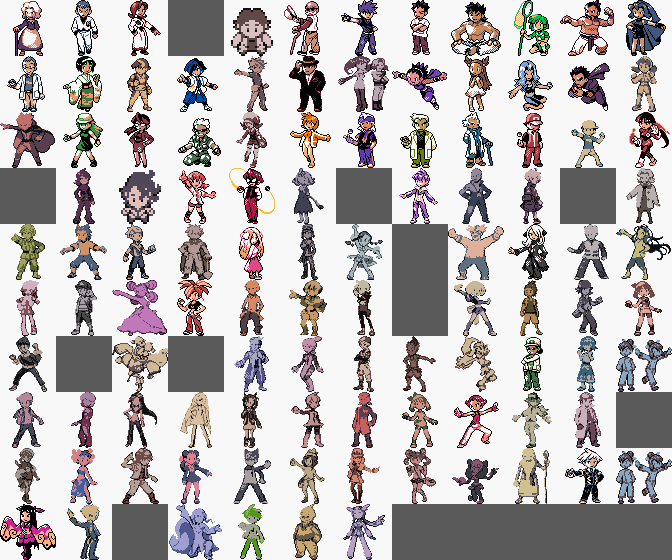
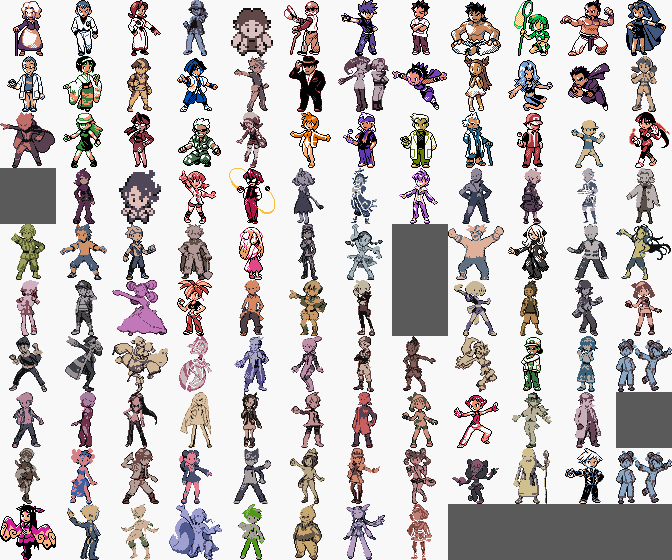
Picker portraits 112/117: Platinum CM's DS portraits as a third source
Ash, Adaman, Beni, Ingo, Irida, Volo, Zisu (Showdown trainer avatars via the Platinum port),
reduced to 56x56 4-colour GBC pics like ROWE's; their background is the corner pixel's index
(14/15), not 0. test_portraits now also samples one portrait per source (Ash shown live in the
picker); run_tests 27 PASS + tamper controls. Still none: Samson Oak, Chloe, Goh, Paul, Zoey.
Build cf0c3e69, BPS 75b55301.

Claude-Session: https://claude.ai/code/session_01LZxD7WiahHdGyH93ChcJpT

diff --git a/tools/character_mode/build_portraits.py b/tools/character_mode/build_portraits.py
@@ -8,6 +8,10 @@ Sources, in order (credits: CREDITS.md):
      graphics/trainers.h -> the PNG): a 64x64 GBA pic, background (index 0) -> white, cropped to the figure,
      scaled to fit 56x56 (only when larger), and reduced to white + black + two fitted mid-tones.
 
+  3. Platinum Character Mode's portrait for the character (2026-11-03; ~/CharacterHacks-NDS/pokeplatinum-cm/res/graphics/
+     character_mode/NNN_<name>.png, an 80x80 16-colour DS pic, index 0 transparent): reduced exactly like source 2.
+     Its own source is credited in that repo's CREDITS.md (art_sources.json); CREDITS.md here names it per character.
+
 Writes art/portraits/<id>.2bpp (49 tiles, row-major), <id>.pal (4 x RGB555), contact.png and manifest.json
 {id: {name, source}}, plus tools/character_mode/portraits.asm (the per-character table in bank 119 at $46A0
 and the pics in banks $79-$7F, 20 per bank). Characters without a source get none: the picker leaves the
@@ -30,6 +34,7 @@ FIRST_BANK, PER_BANK, NUM_CHARS = 0x79, 20, 152
 PC = Path.home() / "src-donors/gbc-art/polishedcrystal/gfx/trainers"
 ROWE = Path("/home/jbfish00/Documents/Pokemon Rowe Alteration")
 SIZE = 56
+PLAT = Path.home() / "CharacterHacks-NDS/pokeplatinum-cm/res/graphics/character_mode"
 PC_ALIAS = {"Lt. Surge": "lt_surge"}
 
 
@@ -59,6 +64,14 @@ def rowe_pngs():
     return out
 
 
+def plat_pngs():
+    """character key -> Platinum CM portrait PNG (file names are NNN_<key>.png)."""
+    out = {}
+    for f in sorted(PLAT.glob("[0-9][0-9][0-9]_*.png")):
+        out.setdefault(f.stem.split("_", 1)[1], f)
+    return out
+
+
 def rgb555(c):
     r, g, b = c
     return (r >> 3) | ((g >> 3) << 5) | ((b >> 3) << 10)
@@ -78,12 +91,19 @@ def from_pc(name):
     return idx, [r | (g << 5) | (b << 10) for r, g, b in pal4]
 
 
-def from_gba(png):
+def from_gba(png, bg_from_corner=False):
+    """bg_from_corner: the background is the corner pixel's index, not index 0 (Platinum CM's DS pics use 14 or 15)."""
     im = Image.open(png)
     assert im.mode == "P", png
     pal = im.getpalette()[:48]
     w, h = im.size
     px = list(im.getdata())
+    if bg_from_corner:
+        bg = px[0]
+        assert {px[w - 1], px[-w], px[-1]} == {bg}, (png, "corners disagree")
+        px = [0 if v == bg else (bg if v == 0 else v) for v in px]     # swap bg <-> 0
+        pal = list(pal) + [0] * (48 - len(pal))
+        pal[0:3], pal[bg * 3:bg * 3 + 3] = pal[bg * 3:bg * 3 + 3], pal[0:3]
     rgb = Image.new("RGB", (w, h), (255, 255, 255))
     for i, v in enumerate(px):
         if v:
@@ -168,6 +188,7 @@ def main():
     h = rows[0]
     sel = [(int(r[0]), r[1]) for r in rows[1:] if r[h.index("selectable")] == "1"]
     rowe = rowe_pngs()
+    plat = plat_pngs()
     OUT.mkdir(parents=True, exist_ok=True)
     man, sheet = {}, Image.new("RGB", (SIZE * 12, SIZE * ((len(sel) + 11) // 12)), (90, 90, 90))
     for n, (cid, name) in enumerate(sel):
@@ -175,6 +196,8 @@ def main():
             idx, pal, src = *from_pc(name), "polishedcrystal:" + key(name)
         elif name in rowe:
             idx, pal, src = *from_gba(rowe[name]), "rowe:" + rowe[name].name
+        elif key(name) in plat:
+            idx, pal, src = *from_gba(plat[key(name)], bg_from_corner=True), "platinum-cm:" + plat[key(name)].name
         else:
             continue
         (OUT / ("%d.2bpp" % cid)).write_bytes(to_2bpp(idx))
@@ -188,9 +211,10 @@ def main():
     (OUT / "manifest.json").write_text(json.dumps(man, indent=1))
     emit_asm(man)
     missing = [name for cid, name in sel if cid not in man]
-    print("portraits %d / %d selectable (polishedcrystal %d, rowe %d); missing: %s" % (
+    print("portraits %d / %d selectable (polishedcrystal %d, rowe %d, platinum-cm %d); missing: %s" % (
         len(man), len(sel), sum(v["source"].startswith("polished") for v in man.values()),
-        sum(v["source"].startswith("rowe") for v in man.values()), missing))
+        sum(v["source"].startswith("rowe") for v in man.values()),
+        sum(v["source"].startswith("platinum") for v in man.values()), missing))
 
 
 if __name__ == "__main__":

diff --git a/tools/tests/test_portraits.py b/tools/tests/test_portraits.py
@@ -56,6 +56,11 @@ def main():
     with_art = [k for k, (cid, _) in enumerate(sel) if cid in man]
     without = [k for k, (cid, _) in enumerate(sel) if cid not in man]
     pick = [with_art[0], with_art[len(with_art) // 2], with_art[-1]]
+    # + one of each source (2026-11-03: Platinum CM's DS pics joined Polished Crystal and ROWE)
+    for pre in ("polishedcrystal:", "rowe:", "platinum-cm:"):
+        k = next(k for k in with_art if man[sel[k][0]]["source"].startswith(pre))
+        if k not in pick:
+            pick.append(k)
 
     pb = PyBoy(ROM, window="null", cgb=True)
     pb.set_emulation_speed(0)

diff --git a/README.md b/README.md
@@ -20,7 +20,7 @@ means a completely different CPU (SM83, not ARM), a pure RGBDS-assembly codebase
    *Pokemon Prism v0.95 build 254 Hotfix 5* (sha1 in `rom.sha1`). Do not share the patched ROM.
 2. Start a **New Game**. After you pick your look and name, a list appears:
    *Normal game* plus the offered characters (117 of 152 slots; the 07-25 audit rosters, no Rijon; see `ROSTERS.md`). Up/Down move, Left/Right page, **A** confirms.
-   The highlighted character's portrait shows on the right (105 of the 117 have one; 2026-10-28, sources in `CREDITS.md`).
+   The highlighted character's portrait shows on the right (112 of the 117 have one; 2026-11-03, sources in `CREDITS.md`).
 3. Pick *Normal game* and the hack is invisible. Pick a character and:
    * you can only catch that character's roster (and every on-roster wild Pokemon is caught
      100%); off-roster Pokemon cannot be caught, withdrawn from the PC, or received by an NPC trade;
@@ -47,8 +47,7 @@ means a completely different CPU (SM83, not ARM), a pure RGBDS-assembly codebase
 4. The choice is saved with the game. It cannot be changed afterwards.
 
 **Not built:** the player's overworld sprite and Pokemon icons on the roster screen. Portraits are
-missing for 12 characters with no art found yet (Ash, Samson Oak, Adaman, Beni, Chloe, Goh, Ingo, Irida,
-Paul, Volo, Zisu, Zoey); the picker leaves the area blank for them. An off-roster **egg** is not refused (same ruling as the other
+missing for 5 characters with no art found yet (Samson Oak, Chloe, Goh, Paul, Zoey); the picker leaves the area blank for them. An off-roster **egg** is not refused (same ruling as the other
 ports); link trades are vetoed in decision code only (PyBoy has no cable).
 
 The features are tested in a **live harness** (`tools/live_battle.py`: real wild battles, Pack/throw animation and START/party menus in PyBoy); see `docs/SELECTION_MECHANISM.md` section 7.

diff --git a/CREDITS.md b/CREDITS.md
@@ -11,6 +11,24 @@ https://github.com/Rangi42/polishedcrystal (`gfx/trainers/`). Their palette file
 
 Agatha, Anabel, Archer, Ariana, Blaine, Blue, Brock, Bruno, Bugsy, Caitlin, Chuck, Clair, Cynthia, Elm, Erika, Falkner, Flannery, Giovanni, Janine, Jasmine, Karen, Koga, Kukui, Leaf, Lorelei, Lt. Surge, Maylene, Misty, Morty, Oak, Pryce, Red, Sabrina, Steven, Valerie, Whitney, Will
 
+### Platinum Character Mode portraits, 7 pics, reduced to GBC format (2026-11-03)
+
+Taken from the Platinum Character Mode repo's `res/graphics/character_mode/` (its CREDITS.md: Pokemon Showdown /
+smogon/sprites trainer avatars, themselves from the DS games) and reduced here to 56x56 with 4 colours, the
+background taken from the corner pixel. The original artists keep all credit.
+
+| character | source file |
+|---|---|
+| Ash | `015_ash.png` |
+| Adaman | `210_adaman.png` |
+| Beni | `214_beni.png` |
+| Ingo | `222_ingo.png` |
+| Irida | `223_irida.png` |
+| Volo | `197_volo.png` |
+| Zisu | `237_zisu.png` |
+
+Still without a portrait (no source found): Samson Oak, Chloe, Goh, Paul, Zoey.
+
 ### R.O.W.E. Character Mode front pics, 68 pics, reduced to GBC format
 
 Taken from the ROWE Character Mode decomp's `graphics/trainers/front_pics/` and reduced here to 56x56 with
